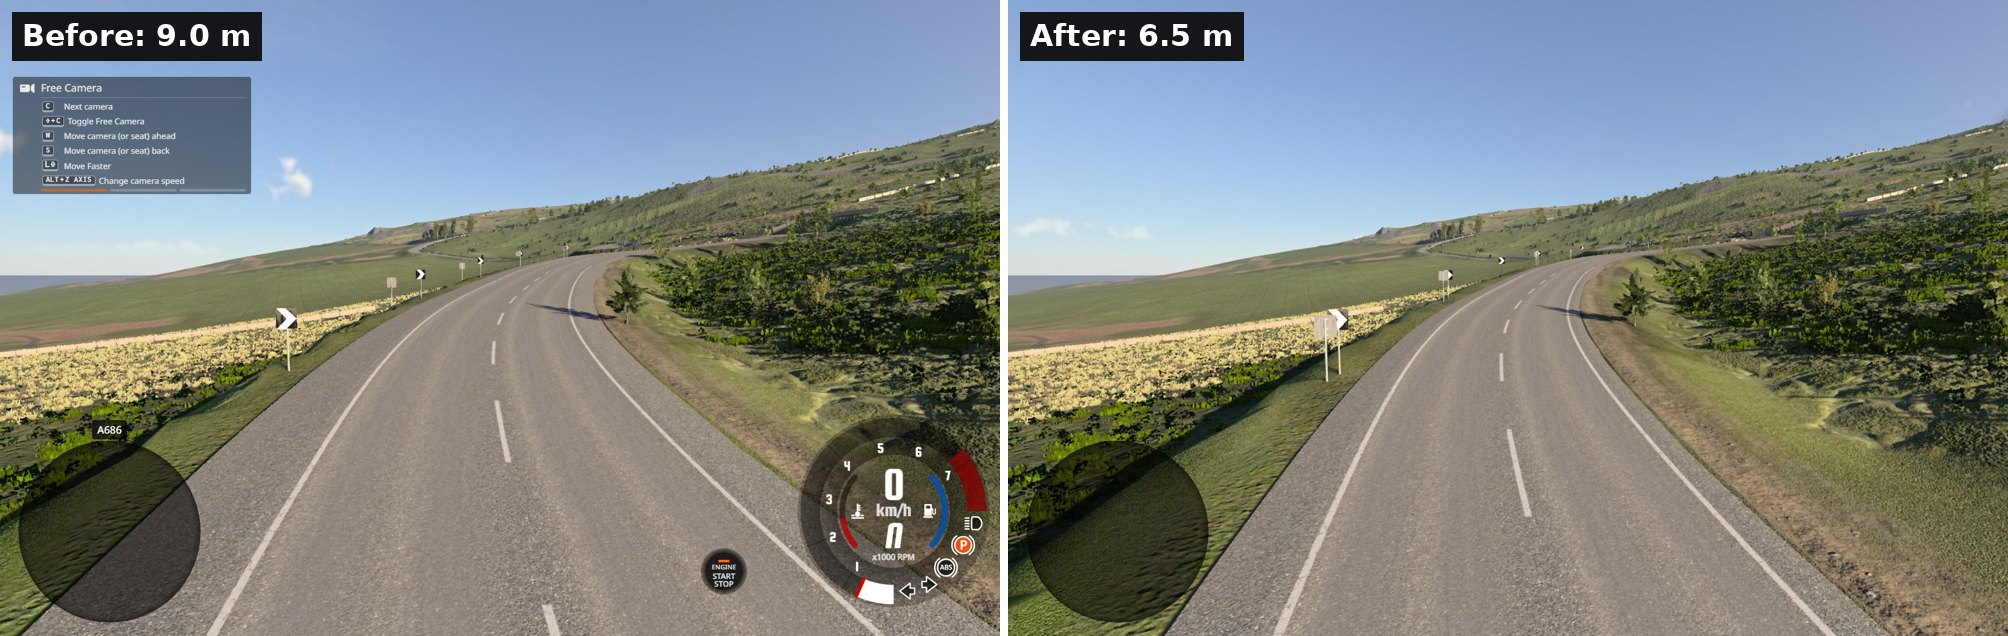
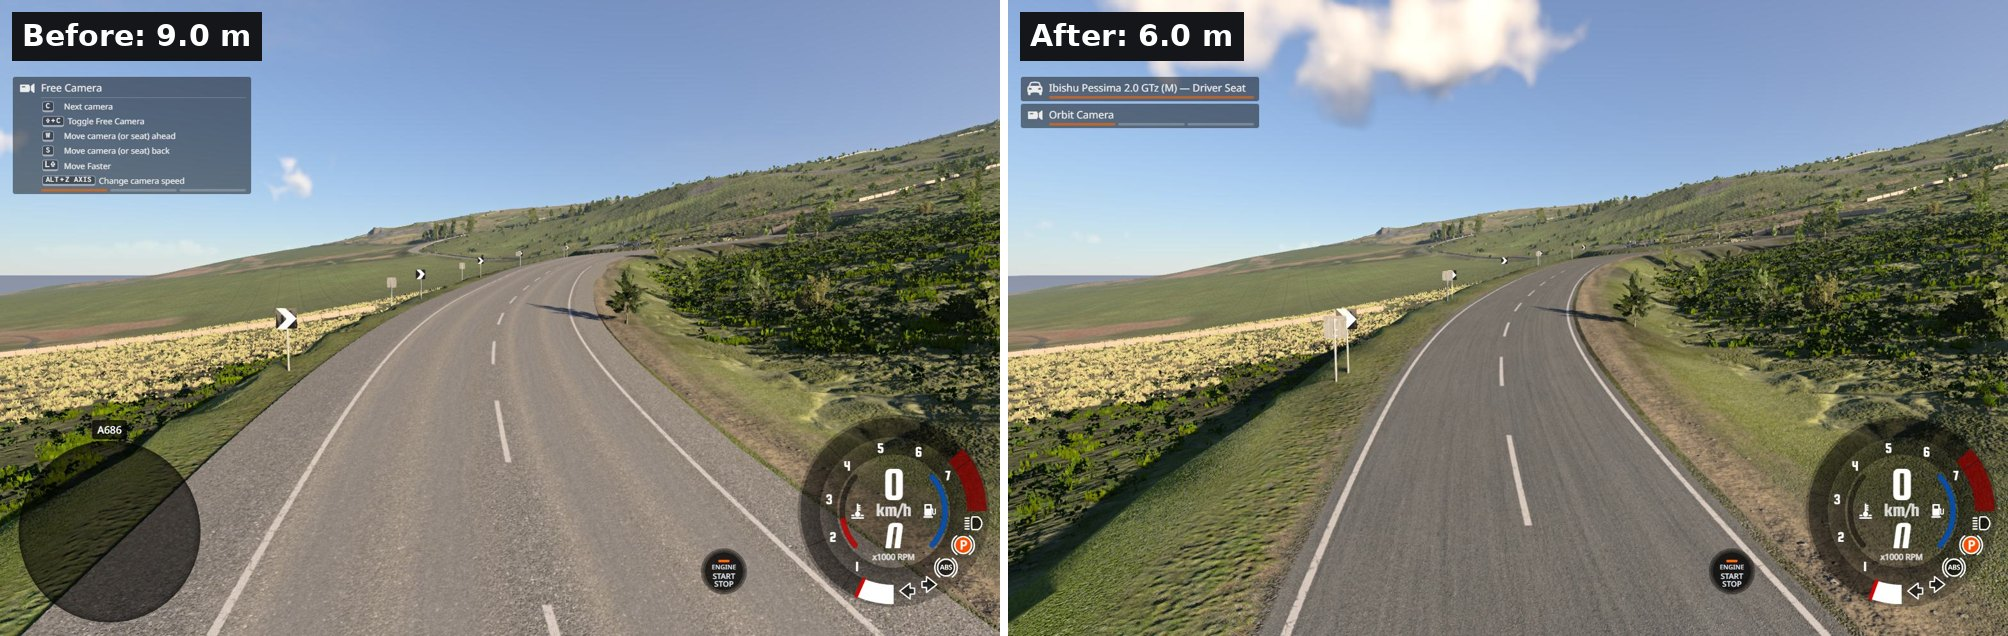
0.3.1 page: the road width library, and what came after the first draft
Claude-Session: https://claude.ai/code/session_01A32U8yaCByP1obMUzo3QHu

Changed region(s): [[0.494, 0.3286, 1.0, 1.0], [0.494, 0.0, 0.8028, 0.2091]]

diff --git a/public/updates/0.3.1/index.html b/public/updates/0.3.1/index.html
@@ -201,13 +201,19 @@
   <section id="widths">
     <div class="kicker">Roads</div>
     <h2>📏 Road widths that fit the country</h2>
-    <p>A BeamNG developer's map of the Pennines came out with roads far too wide, and his export report showed why. Three things changed:</p>
+    <p>A BeamNG developer's map of the Pennines came out with roads far too wide, and his export report showed why: MapNG's usual lane widths, and the metre of asphalt outside each edge line, were measured on BeamNG's own levels, which are North American roads. A road's width is now taken from, in this order:</p>
+    <ol>
+      <li><b>A width mapped in OpenStreetMap.</b> It always wins.</li>
+      <li><b>The satellite picture</b>, if you switch on <b>Map data &gt; Measure road widths</b>, wherever the road's edges are clear in it.</li>
+      <li><b>The country's own figures.</b> A new library holds the lane width usual for each road class, and the paved strip outside the edge line, for the ten countries MapNG is used from most: the United States, Russia, Poland, Germany, the United Kingdom, France, the Netherlands, Italy, Canada and Brazil. Each was read from the country's design rules, and its sources are listed beside it in the code.</li>
+      <li><b>The region's figures</b> for any other country, and MapNG's usual ones where the place is not known.</li>
+    </ol>
+    <figure><img src="images/road-widths.jpg" alt="The same bend of a British A road in the game twice: 9 metres of asphalt before, with wide strips outside the edge lines, and 6 metres after" loading="lazy"><figcaption>The same bend of a British A road in the game: 9.0 m of asphalt before, 6.0 m after. A level made before needs a fresh Generate.</figcaption></figure>
     <ul>
-      <li><b>Narrower roads outside the Americas.</b> MapNG's usual lane widths, and the metre of asphalt outside each edge line, were measured on BeamNG's own levels, which are North American roads. Elsewhere, a road with no width in OpenStreetMap now gets 3.0 m lanes on primary and secondary roads, 2.75 m on smaller ones, and a 0.25 m edge strip. Motorways, mapped widths and the Americas are as before.</li>
-      <li><b>Single-track roads.</b> A lane tagged <code>lanes=1</code> was built with two lanes, 6 m wide. The mapper's count now wins: it is one lane, about 3.5 m.</li>
-      <li><b>Measuring from the satellite picture no longer widens a road.</b> Where the verge or a stone wall is the road's own grey, the measurement read too wide. A width well over the class's usual one is not taken. Changing the switch now makes Generate run again, and the note in Fine-tuning says how many roads were measured out of how many.</li>
+      <li><b>Single-track roads.</b> A lane tagged <code>lanes=1</code> was built with two lanes, 6 m wide. The mapper's count now wins: one lane, 3.5 m (4.5 m in Russia, by its rule).</li>
+      <li><b>Measuring from the satellite picture</b> no longer widens a road: where the verge or a stone wall is the road's own grey, it read too wide. Changing the switch now makes Generate run again, and the note in Fine-tuning says how many roads were measured out of how many. The desktop app measures every road; the website keeps a limit on how many pictures it downloads.</li>
+      <li><b>The figures are a starting point.</b> A design rule and the road outside your window can differ, and a rule's classes do not map exactly onto the map's road types. If your country's roads come out wrong, say so on Discord with a measurement.</li>
     </ul>
-    <figure><img src="images/road-widths.jpg" alt="The same bend of a British A road in the game twice: 9 metres of asphalt before, with wide strips outside the edge lines, and 6.5 metres after" loading="lazy"><figcaption>The same bend of a British A road in the game: 9.0 m of asphalt before, 6.5 m after. A level made before needs a fresh Generate.</figcaption></figure>
   </section>
 
   <section id="making">
@@ -272,6 +278,8 @@
       <li><b>"Extremely heavy."</b> Maps past anything MapNG has been tried on are rated that way before you start, and the website warns before a map a browser tab will not finish.</li>
       <li><b>A page older than the site.</b> Four reports in one night read "out of memory" on a small map. Their pages had been open since before an update, and a part of the app they needed was gone. Such a page now shows the update notice with Reload.</li>
       <li><b>A full disk</b> is said plainly, instead of "ENOSPC: no space left on device".</li>
+      <li><b>Elevation where Amazon cannot be reached.</b> A 1 km Generate failed with every elevation tile missing while the satellite tiles arrived: the global elevation tiles come straight from Amazon's storage, which some networks cannot reach. MapNG now fetches them through mapng.com when the direct download fails.</li>
+      <li><b>The disclaimer says what a heavy map can do</b>: use all of a computer's memory or fill its disk, and freeze or crash the browser, the app, the game or the computer. MapNG is free software with no warranty, used at your own risk.</li>
       <li><b>Graphics problems.</b> A problem report now includes your graphics card and driver, Help has a <b>Software Rendering</b> switch for cards that garble the preview, and running out of graphics memory has a clear message.</li>
     </ul>
   </section>
@@ -284,6 +292,11 @@
       <li><b>Street parking is no longer assumed.</b> A town street with no parking tags is built at its driving width, so residential streets come out narrower.</li>
       <li><b>Planned roads and roads in tunnels are not painted</b> on the ground texture. A proposed trail in a canyon had been painted as asphalt.</li>
       <li><b>The lock on the location map</b> works at any time, also with an Area Mask drawn.</li>
+      <li><b>Generate could be pressed with GPXZ chosen and no key.</b> It is disabled until there is one.</li>
+      <li><b>The 3D preview remembers its settings</b>: sky, sun, detail, water, wireframe and surroundings.</li>
+      <li><b>Dark mode</b> reaches the 3D preview's switches, the map's tooltips, and the browser's own scrollbars and lists; the progress bar's track shows in light mode again.</li>
+      <li><b>Uploaded files' details</b> (grid, resolution, units, coverage) are shown in all seven languages, and a dozen texts that were still in English are translated.</li>
+      <li><b>Grass tufts.</b> Dry grass and lawns drew two tufts squeezed into each blade card; each card now has one.</li>
       <li><b>Background areas are called Area Mask</b>, and a line round an area too small for the map says so.</li>
       <li><b>Your own OSM file:</b> a JOSM file made of several downloads is read whole.</li>
       <li><b>A mapped kerb gets no rail.</b></li>
@@ -306,7 +319,7 @@
       <li><b>Mesh Roads</b> at hill junctions and where a deck meets a bridge or a tunnel floor.</li>
       <li><b>Hero Roads:</b> junctions joined, and a bake that travels with the level.</li>
       <li><b>"The roads have waves."</b> On the global 30 m data the two sides of a divided road can ride at different heights. Reproduced, not fixed.</li>
-      <li><b>A default road width you can set yourself</b>, for places where the new figures still do not fit.</li>
+      <li><b>More countries in the road width library</b>, and a default width you can set yourself where the figures still do not fit.</li>
       <li><b>A report that says "partial download"</b> from a 33 km map, with no log to go on.</li>
       <li><b>Still open from 0.3.0:</b> steep foot links as stairs, bus lanes and cycle paths, buildings as separate objects, a fresher planet copy.</li>
     </ul>
@@ -317,7 +330,7 @@
     <h2>🙏 Thanks</h2>
     <p>Nearly everything above started as a message, a screenshot or a report from someone testing MapNG. Thank you:</p>
     <ul>
-      <li><b>Wonly</b> (BeamNG): the Hero Roads feedback (lane widths, hundreds of roads, too many points, how baking works), the hill road that came out under the terrain, the garbled preview that led to graphics details in reports and the Software Rendering switch, and the Pennine map whose report led to the road widths.</li>
+      <li><b>Wonly</b> (BeamNG): the Hero Roads feedback (lane widths, hundreds of roads, too many points, how baking works), the hill road that came out under the terrain, the garbled preview that led to graphics details in reports and the Software Rendering switch, the Pennine map whose report led to the road widths, Poland's lane width chart, and the grass tufts.</li>
       <li><b>mcct</b> (BeamNG): the lake-country level in Poland whose water, console errors and frame rate led to the water and backdrop changes.</li>
       <li><b>Fizz_Mechanic</b>: 3D models as a creator's tool (the picked area, tiles, the point spacing and its cost), smooth roads, and the mountain galleries.</li>
       <li><b>Jevi</b>: JOSM files of several downloads, and road widths.</li>
